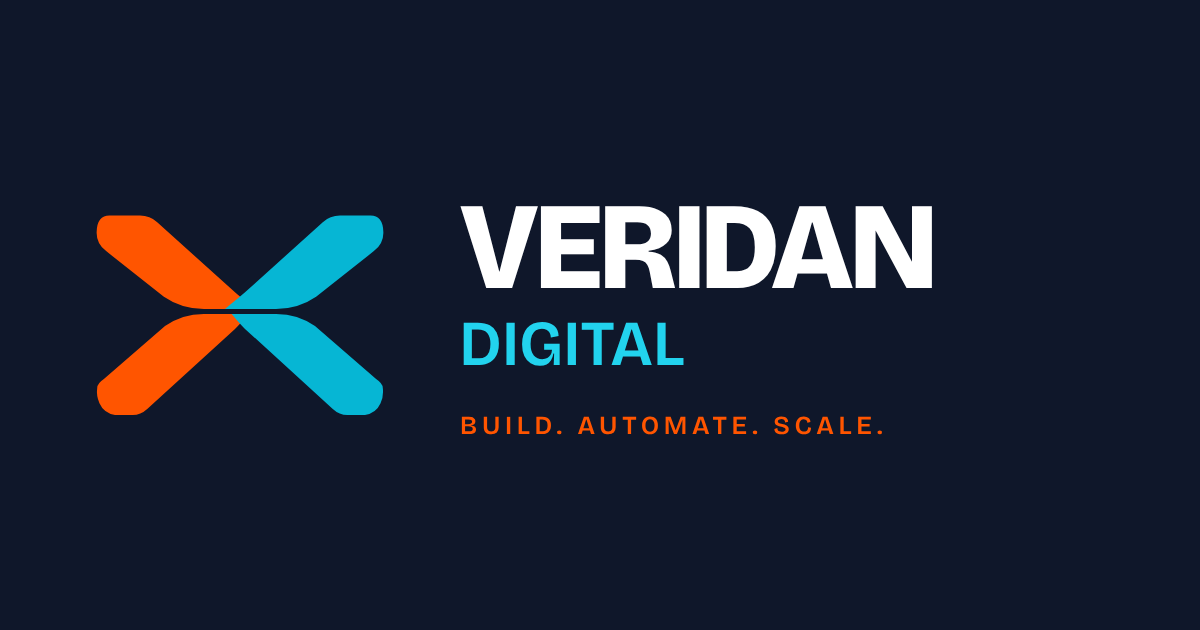
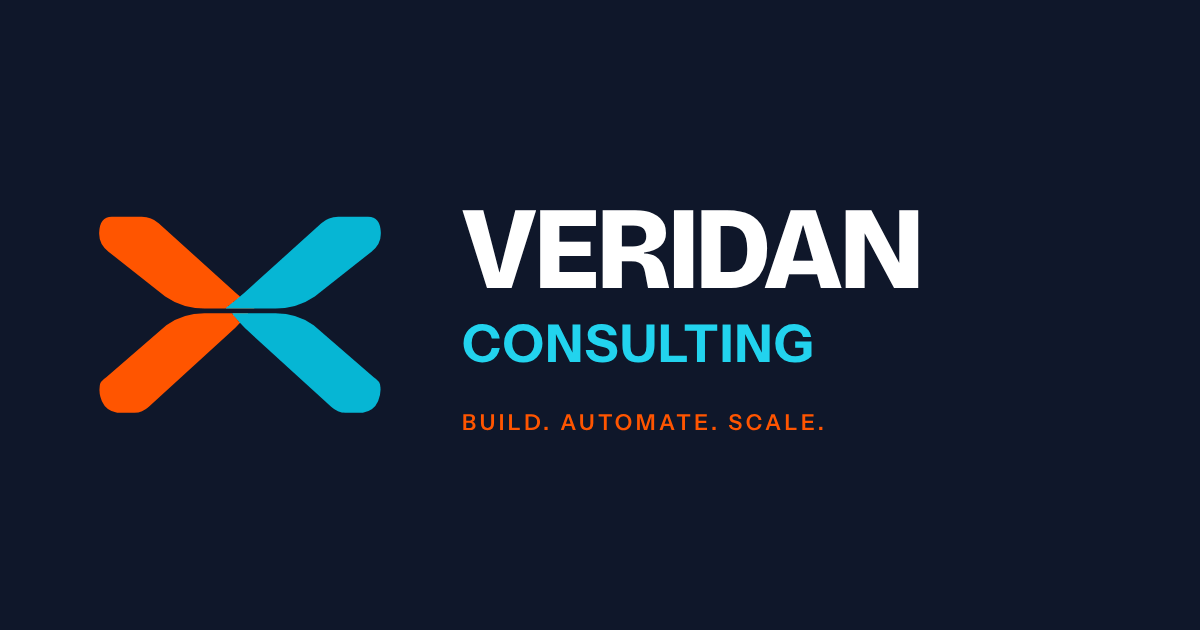
Rename to Veridan Consulting (ready to merge when the name is final)
- site.ts: brand is now "Veridan Consulting"; descriptions, page titles, logo
  text and the email sender follow it. shortName stays "Veridan"
- Replace the remaining hard-coded names: web manifest, work and 404 page
  descriptions, products comment, README
- Re-render the four images that carry the name: share image, wide banner,
  LinkedIn banner and the master logo file. The X mark, favicon and icons
  are unchanged. Banners 65 KB and 35 KB, share image 92 KB

This branch includes copy-update and social-fixes. site.url is unchanged
until the domain is bought. Not build-tested (package installs blocked).

Claude-Session: https://claude.ai/code/session_01Hr9u8cVTCUHU5Ex1asHuiJ

diff --git a/functions/_lib/form.ts b/functions/_lib/form.ts
@@ -84,7 +84,7 @@ export async function sendEmail(
       },
       body: JSON.stringify({
         // Until a domain is verified in Resend, this sender only delivers to the account owner's address.
-        from: 'Veridan Digital <onboarding@resend.dev>',
+        from: `${site.name} <onboarding@resend.dev>`,
         to: [mail.to],
         reply_to: EMAIL_PATTERN.test(mail.replyTo) ? mail.replyTo : undefined,
         subject: mail.subject,

diff --git a/src/data/site.ts b/src/data/site.ts
@@ -1,7 +1,7 @@
 // Everything the whole site needs to know about the business lives here.
 // To rename the business, change `brand` and `shortName`. The descriptions below follow it.
 
-const brand = 'Veridan Digital';
+const brand = 'Veridan Consulting';
 
 export const site = {
   name: brand,

diff --git a/src/data/products.ts b/src/data/products.ts
@@ -1,4 +1,4 @@
-// Products are things Veridan Digital builds and runs itself.
+// Products are things Veridan builds and runs itself.
 // Only add an entry once it is live. The footer shows only status: 'live' items.
 export type Product = {
   slug: string;

diff --git a/README.md b/README.md
@@ -1,4 +1,4 @@
-# Veridan Digital website
+# Veridan Consulting website
 
 Astro static site, built for Cloudflare Pages.
 
@@ -29,7 +29,7 @@ The code checks the honeypot, the request origin and the body size. It does not 
 - `src/styles/global.css`     colors and fonts at the top of the file
 
 ## To rename the agency
-Change `name` and `shortName` in `src/data/site.ts`, update the domain in `astro.config.mjs`, and replace `public/favicon.svg` if the logo changes.
+Change `brand` and `shortName` at the top of `src/data/site.ts`; the descriptions, logo text, page titles and email sender follow it. Also update `url` in the same file when the domain changes, and re-render the three images with the name on them: `public/social/veridan-og.png`, `veridan-banner-wide.png` and `veridan-banner-linkedin.png`. The X mark, favicon and icons carry no name and stay as they are.
 
 ## Version 0.1.0
 - Palette: navy, blue, orange accent, dark orange for small text, cyan highlight (see `:root` in `src/styles/global.css`).
